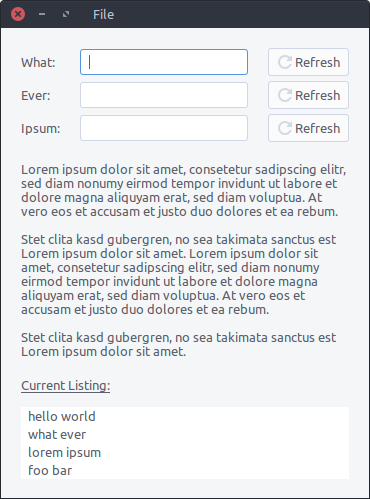
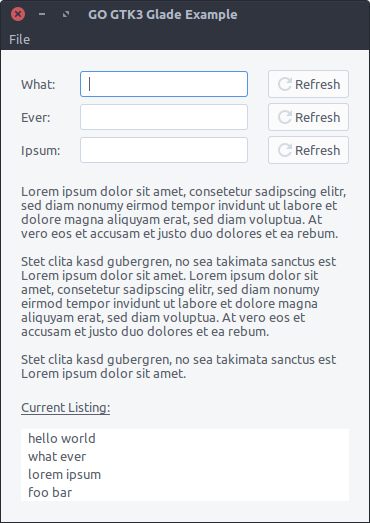
Travis / README / Testfile

Changed region(s): [[0.0595, 0.3307, 0.9514, 0.7214], [0.0, 0.0, 1.0, 0.3006], [0.0595, 0.7515, 0.2973, 0.9619]]

diff --git a/main.go b/main.go
@@ -2,22 +2,19 @@ package main
 
 import (
 	"github.com/gotk3/gotk3/gtk"
-	"github.com/kardianos/osext"
 	"os"
 	"log"
-	"path"
 )
 
 const WindowName = "window"
 const ListboxName = "listbox"
 const UiMain = "glade/main.glade"
-// const ResMain = "glade/main.gresource"
 
 func main() {
 
 	gtk.Init(&os.Args)
 
-	bldr, err := builder()
+	bldr, err := builder(UiMain)
 	if err != nil {
 		log.Fatal(err.Error())
 		os.Exit(1)
@@ -30,7 +27,7 @@ func main() {
 	}
 
 	window.SetTitle("GO GTK3 Glade Example")
-	window.SetDefaultSize(365, 470)
+	window.SetDefaultSize(365, 490)
 	window.Connect("destroy", destroy)
 	window.ShowAll()
 
@@ -39,32 +36,25 @@ func main() {
 	gtk.Main()
 }
 
-func builder() (*gtk.Builder, error) {
-
-	filename, err := osext.Executable()
-	if err != nil {
-		return nil, err
-	}
+// builder returns pointer to gtk.builder loaded with glade resource (if resource is given)
+func builder(filename string) (*gtk.Builder, error) {
 
 	b, err := gtk.BuilderNew()
 	if err != nil {
 		return nil, err
 	}
 
-	//b, err := gtk.BuilderNewFromResource(path.Dir(path.Dir(filename)) + "/" + ResMain)
-	//if err != nil {
-	//	return nil, err
-	//}
-
-	// err = b.AddFromResource(path.Dir(path.Dir(filename)) + "/" + ResMain)
-	err = b.AddFromFile(path.Dir(path.Dir(filename)) + "/" + UiMain)
-	if err != nil {
-		return nil, err
+	if filename != "" {
+		err = b.AddFromFile(filename)
+		if err != nil {
+			return nil, err
+		}
 	}
 
 	return b, nil
 }
 
+// windows returns gtk.Window object from the glade resource
 func window(b *gtk.Builder) (*gtk.Window, error) {
 
 	obj, err := b.GetObject(WindowName)
@@ -80,6 +70,7 @@ func window(b *gtk.Builder) (*gtk.Window, error) {
 	return window, nil
 }
 
+// windows returns gtk.ListBox object from the glade resource
 func listbox(b *gtk.Builder) (*gtk.ListBox, error) {
 
 	obj, err := b.GetObject(ListboxName)
@@ -95,6 +86,7 @@ func listbox(b *gtk.Builder) (*gtk.ListBox, error) {
 	return lb, nil
 }
 
+// loadlist populates ListBox with data
 func loadlist(b *gtk.Builder, data []string) {
 
 	box, err := listbox(b)
@@ -128,6 +120,7 @@ func loadlist(b *gtk.Builder, data []string) {
 	box.ShowAll()
 }
 
+// destroy is the triggered handler when closing/destroying the gui window
 func destroy() {
 	gtk.MainQuit()
 }

diff --git a/main_test.go b/main_test.go
@@ -1,0 +1,8 @@
+package main
+
+import "testing"
+
+func TestWhatever(t *testing.T) {
+	// TODO: Find out how to unittest GTK packages
+	// TODO: Right now there is a problem "virtualizing" GTK windows in tests
+}

diff --git a/README.md b/README.md
@@ -1,7 +1,8 @@
 # Go GTK3 Glade Example
 
-[![license](https://img.shields.io/badge/License-Apache%202.0-blue.svg)](LICENSE)
+[![license](https://img.shields.io/badge/License-Apache%202.0-blue.svg)](https://opensource.org/licenses/Apache-2.0)
 [![goreportcard](https://goreportcard.com/badge/github.com/mrccnt/gotk3-glade-example)](https://goreportcard.com/report/github.com/mrccnt/gotk3-glade-example)
+[![buildstatus](https://api.travis-ci.org/mrccnt/gotk3-glade-example.svg?branch=master)](https://travis-ci.org/mrccnt/gotk3-glade-example)
 
 Experimenting with go and gtk using [gotk3](https://github.com/gotk3/gotk3) and [glade](https://glade.gnome.org/).
 
@@ -9,9 +10,9 @@ Experimenting with go and gtk using [gotk3](https://github.com/gotk3/gotk3) and 
 
 ## Prerequisites
 
+Install dev dependencies for `gtk`, `cairo` and `glib`
+
 ```bash
-    # Install dev dependencies for gtk, cairo and glib
-    #
     sudo apt-get install libgtk-3-dev libcairo2-dev libglib2.0-dev
 ```
 
@@ -21,52 +22,38 @@ Experimenting with go and gtk using [gotk3](https://github.com/gotk3/gotk3) and 
     Go 1.8.3
     GTK 3.18
 
-The `install.sh` script makes use of the corresponding gtk build tags.
+I set up GO environments vars for this project like this:
+
+```bash
+    export GOPATH=$(pwd)
+    export GOBIN=$(pwd)/bin
+```
 
 ## Dependencies
 
-We also need to install [glide](https://glide.sh) as package manager.
-
-Install on a per project base:
-
-```bash
-    # Make glide available in ./bin directory
-    #
-    curl https://glide.sh/get | sh
-```
-
-Or install via PPA:
+We also need to install [glide](https://glide.sh) as package manager. Install
+dependencies in `./vendor` dir and link them in `./src` dir:
 
 ```bash
-    # Make glide globally available
-    #
-    sudo add-apt-repository ppa:masterminds/glide
-    sudo apt-get update
-    sudo apt-get install glide
-```
-Now install the dependencies:
-
-```bash
-    
-    # Install dependencies in ./vendor directory
-    #
     glide install
-    
-    # Link dependecies in ./src directory
-    # 
-    ./link.sh
+    ln -sr vendor/github.com src/github.com
 ```
 
-## Run / Build
-    
+## Run, Install and Build
+
+To make everything work, we need to pass a tag when using the code. Always
+tag the build with you current gtk version, which in this case is `3.18`
+(`gtk_3_18`):
+
 ```bash
-       
-    # Install
-    #
-    ./install.sh
-
-    
-    # Run
-    #
-    gotk3-glade-example
+    go run -v -tags gtk_3_18 main.go
+    go test -v -tags gtk_3_18
+    go install -v -tags gtk_3_18
+    go build -v -tags gtk_3_18 -o dist/gotk3-glade-example
 ```
+
+## Links
+
+ * [Go bindings for GTK+3](https://github.com/gotk3/gotk3)
+ * [Glade User Interface Designer](https://glade.gnome.org/)
+ * [Glide Package Manager](https://glide.sh)
